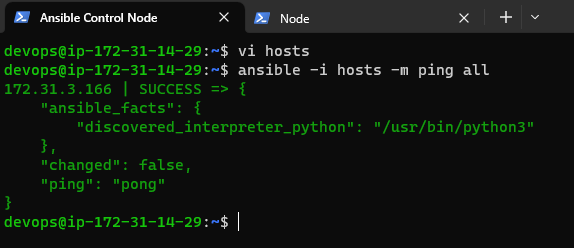
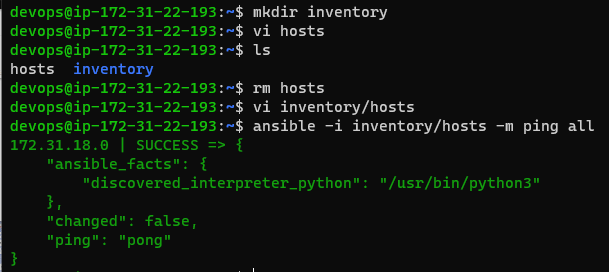
Added notes to repo

Changed region(s): [[0.0, 0.0, 1.0, 1.0], [0.622, 0.6492, 0.8885, 0.7056], [0.4146, 0.9879, 0.4443, 1.0]]

diff --git a/notes.md b/notes.md
@@ -20,11 +20,13 @@
 3. Reusable
 
 ## Configuration Management (CM)
+
 * There are two types :
 1. PULL based configuration
 2. PUSH based configuration
 
 ### PULL based Configuration Management :
+
 * Communication direction => Node to CM server
 
 ![Alt text](shots/3.PNG)
@@ -41,6 +43,7 @@
 ![Alt text](shots/5.PNG)
 
 ### PUSH based Configuration Management :
+
 * Communication direction => CM Server to Node
 
 ![Alt text](shots/6.PNG)
@@ -61,6 +64,7 @@
 * Referrence : https://docs.ansible.com/ 
 
 ## Architecture and Workflow
+
 * Basic workflow
 
 ![Alt text](shots/9.PNG)
@@ -82,6 +86,7 @@
 * Having username and password is not a sensible way so we use keypair based authentication
 
 ## Key pair authetication using RSA (Rivest, Shamir, Adleman)
+
 * In this we generate two keys (i.e., public and private) of some mathematical prime number calulations
 
 => Public key : It comprises of two numbers, in which one number is the result of the product of two large prime numbers. This key is provided to all the users.
@@ -102,6 +107,7 @@
 * Copy the service account public key to all the servers and also disable the password based authentication
 
 ## Setting up sudo permissions
+
 * We need to add devops user to the sudoers group (Wheel in Redhat server)
 * We use 'sudo visudo' command
 
@@ -132,15 +138,14 @@ To enable password authentications edit config 'sudo /etc/ssh/sshd_config' and s
 ![Alt text](shots/20.PNG)
 
 [ Optional: as both machines are in the same network we can also use private ipaddress of other machine to connect instead of public ipaddress ]
+
 * Install Ansible on the control node using commands only on the control node :
 
 -> sudo apt update
-
 -> sudo apt install software-properties-common -y
-
 -> sudo add-apt-repository --yes --update ppa:ansible/ansible
-
 -> sudo apt install ansible -y
+
 * Verify ansible version ('ansible --version')
 
 ![Alt text](shots/21.PNG)
@@ -157,14 +162,15 @@ To enable password authentications edit config 'sudo /etc/ssh/sshd_config' and s
 ![Alt text](shots/24.PNG)
 ![Alt text](shots/25.PNG)
 
-* Adding inventory - Create a file named hosts ( 'vi hosts') with entry (private IPaddress of the node)
-* Check connectivity by executing 'ansible -m ping -i hosts all'
+* Adding inventory ('mkdir inventory') - Create a file named hosts ( 'vi inventory/hosts') with entry (public-IP of the node) (private-IP works when machines in same network)
+* Check connectivity by executing 'ansible -m ping -i inventory/hosts all'
 
 ![Alt text](shots/26.PNG)
 
 ## Communication types
 
-* Ansible can communicate with nodes by using two approaches
+* Ansible can communicate with nodes by using two approaches :
+
 1. adhoc commands : (build command for desired state)
 
 * command uses the /usr/bin/ansible command-line tool to automate a single task on one or more managed nodes.
@@ -182,14 +188,29 @@ E.g : For Gathering facts
 * These offer a repeatable, re-usable, simple configuration management and multi-machine deployment system (well suited to deploying complex applications).
 * If you need to execute a task with Ansible more than once, write a playbook and put it under source control,then you can use the playbook to push out new configuration or confirm the configuration of remote systems.
 * Playbooks with multiple ‘plays’ can orchestrate multi-machine deployments, running one play on your webservers, then another play on your database servers, then a third play on your network infrastructure, and so on
+* Here smallest unit of work is done by module 
+
+![Alt text](shots/27.PNG)
 
 Syntax : YAML format 
- * Running a playbook (10 times)
-    'ansible-playbook -i [inventory-path] [playbook-path]'
+
+ * Running a playbook 
+    ('ansible-playbook -i [inventory-path] [playbook-path]')
+* YAML supports yes-no for true-false unlike JASON
+
+![Alt text](shots/28.PNG)
 
 ## Sample playbook execution
  
- playbook : hello.yml
+* Complete the entire Ansible control node - node setup
+* Create inventory and add node hosts
+  * mkdir inventory
+  * vi inventory/hosts
+* Create a directory and add a yaml file
+  * mkdir playbooks
+  * vi playbooks/hello.yml
+
+ Playbook : playbooks/hello.yml
    --- 
 - name: hello ansible
   hosts: all
@@ -201,34 +222,37 @@ Syntax : YAML format
         state: present
         update_cache: yes
 
-Commands to execute playbook:
+Commands to execute :
 
-* mkdir inventory and cd inventory/
-* vi hosts  (here add ip of node into this file) and cd ..
-* mkdir class-playbooks and cd  class-playbooks/
-* vi hello.yml and cd ..
-* ansible-playbook -i inventory/hosts class-playbooks/hello.yml
-
-## Playbook simantics :
-* Here smallest unit of work is done by module 
-
-![Alt text](shots/27.PNG)
-
-![Alt text](shots/28.PNG)
+* ansible-playbook -i inventory/hosts playbooks/hello.yml
 
 ## WOW (Ways Of Working)
-1.  list down all the manual steps
+
+1. list down all the manual steps
 2. Ensure all the steps are working
 3. For each step find a module and express the desired state
 
 ## Sample-1 : Install apache server
+
+ Manual steps :
+
 * sudo apt update
 * sudo apt install apache2 -y
 * Verify installation 'http://public-ip' 
-* For writing playbook we first search for module as 'package in ansible'
+
+Playbook steps :
+
+* Complete the entire Ansible control node - node setup
+* Create inventory and add node hosts
+  -> mkdir inventory
+  -> vi inventory/hosts
+* create a directory and add a yaml file
+  -> mkdir playbooks
+  -> vi playbooks/apache2.yml
+* For writing playbook we first search for module as 'apt in ansible'
 * Now select parameters
 
- playbook : apache2.yml
+ Playbook : playbooks/apache2.yml
 ---
 - name: install apache server
   hosts: all
@@ -240,10 +264,136 @@ Commands to execute playbook:
         update_cache: yes
         state: present
 
-Commands to execute playbook :
+Commands to execute :
 
-* mkdir inventory and cd inventory/
-* vi hosts  (here add ip of node into this file) and cd ..
-* mkdir class-playbooks and cd  class-playbooks/
-* vi apache2.yml and cd ..
-* ansible-playbook -i inventory/hosts class-playbooks/apache2.yml 
+* ansible-playbook -i inventory/hosts playbooks/apache2.yml
+
+## Sample-2 : Install LAMP server on ubuntu
+   ( skipping mysql installation )
+
+ Manual steps :
+
+* sudo apt update
+* sudo apt install apache2 -y
+* sudo apt install php libapache2-mod-php php-mysql -y
+[# Create a file called as /var/www/html/info.php with below content
+# <?php phpinfo(); ?>]
+* sudo -i
+* echo '<?php phpinfo(); ?>' > /var/www/html/info.php
+* exit
+* sudo systemctl restart apache2
+* Verify installation 'http://public-ip/info.php' 
+
+Playbook steps :
+
+* Complete the entire Ansible control node - node setup
+* Create inventory and add node hosts
+  -> mkdir inventory
+  -> vi inventory/hosts
+* create a directory and add a yaml file
+  -> mkdir playbooks
+  -> vi playbooks/apache2.yml
+* For writing playbook we first search for module as 'apt in ansible'
+* Now select parameters
+
+ Playbook : playbooks/lamp/ubuntu.yml
+---
+- name: install lamp server on ubuntu
+  hosts: all
+  become: yes
+  tasks:
+    - name: update packages and install apache
+      ansible.builtin.apt:
+        name: apache2
+        update_cache: yes
+        state: present
+    - name: install php packages
+      ansible.builtin.apt:
+        name:
+          - php
+          - libapache2-mod-php
+          - php-mysql
+        state: present
+    - name: copy the info.php page
+      ansible.builtin.copy:
+        src: info.php
+        dest: /var/www/html/info.php
+    - name: restart apache2
+      ansible.builtin.systemd:
+        name: apache2
+        state: restarted
+
+playbooks/lamp/info.php
+
+* <?php phpinfo(); ?>
+
+Commands to execute :
+
+* ansible-playbook -i inventory/hosts --syntax-check playbooks/ubuntu.yml
+
+* ansible-playbook -i inventory/hosts playbooks/ubuntu.yml
+
+## Sample-3 : Install LAMP stack on Redhat9
+   ( skipping mysql installation )
+
+ Manual steps :
+
+* sudo yum install httpd -y
+* sudo systemctl enable httpd
+* sudo systemctl start httpd
+* sudo yum install php -y
+* sudo -i
+* echo '<?php phpinfo(); ?>' > /var/www/html/info.php
+* exit
+* sudo systemctl restart httpd
+* Verify installation 'http://public-ip/info.php' 
+
+Playbook steps :
+
+* Complete the entire Ansible control node - node setup
+* Create inventory and add node hosts
+  -> mkdir inventory
+  -> vi inventory/hosts
+* create a directory and add a yaml file
+  -> mkdir playbooks
+  -> vi playbooks/apache2.yml
+* For writing playbook we first search for module as 'apt in ansible'
+* Now select parameters
+
+ Playbook : playbooks/lamp/redhat.yml
+---
+- name: install lamp server on ubuntu
+  hosts: all
+  become: yes
+  tasks:
+    - name: install apache server
+      ansible.builtin.yum:
+        name: httpd
+        state: present
+    - name: enable and start apache
+      ansible.builtin.systemd:
+        name: httpd
+        enabled: yes
+        state: started
+    - name: install apache server
+      ansible.builtin.yum:
+        name: php
+        state: present
+    - name: copy the info.php file
+      ansible.builtin.copy:
+        src: info.php
+        dest: /var/www/html/info.php
+    - name: restart apache
+      ansible.builtin.systemd:
+        name: httpd
+        state: restarted
+
+playbooks/lamp/info.php
+
+* <?php phpinfo(); ?>
+
+Commands to execute :
+
+* ansible-playbook -i inventory/hosts --syntax-check playbooks/redhat.yml
+
+* ansible-playbook -i inventory/hosts playbooks/redhat.yml
